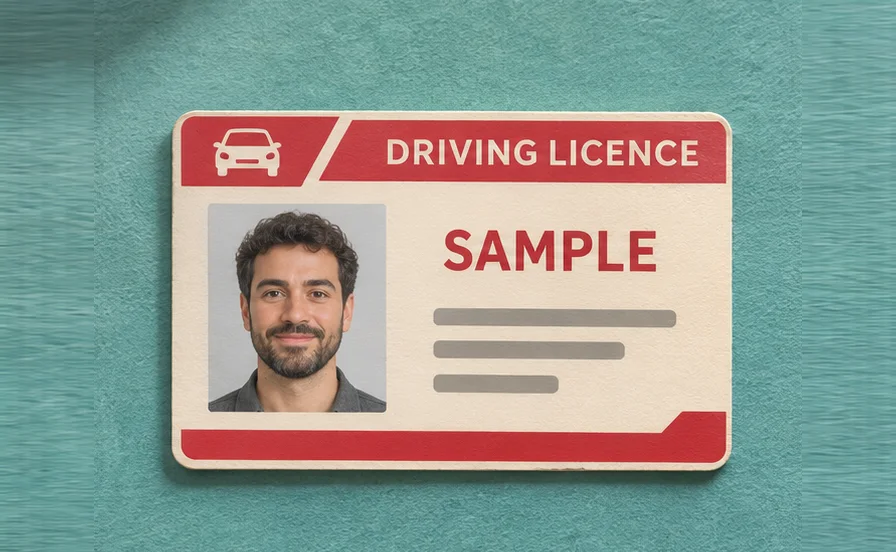
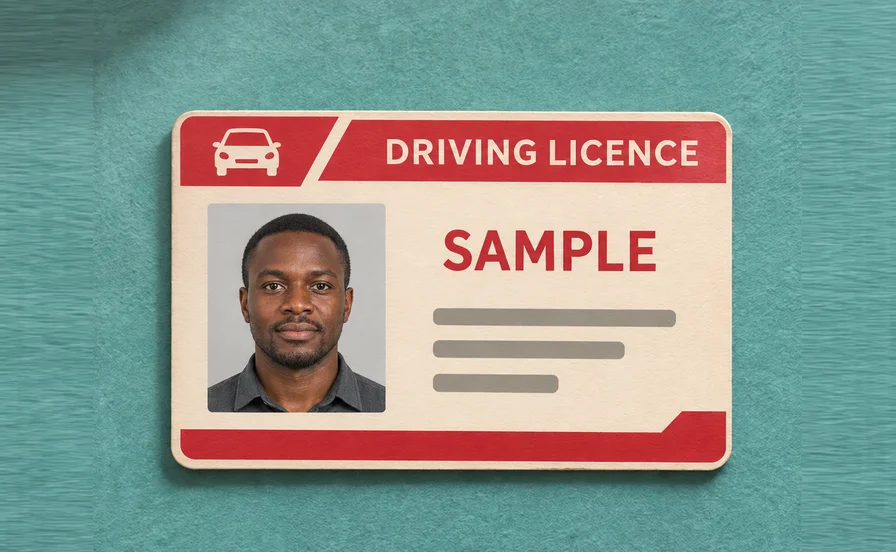
updates to home page

diff --git a/frontend/src/utils/documentGuide.js b/frontend/src/utils/documentGuide.js
@@ -1,5 +1,5 @@
 export const documents = [
   { id:'national_id', name:'National ID', image:'/guide/national-id.webp', alt:'Sample photo ID on a sea-green tabletop', capture:'Capture both sides', hint:'Keep all four corners visible on the front and back.' },
-  { id:'passport', name:'Passport', image:'/guide/passport.webp', alt:'Open sample passport with its portrait page visible', capture:'Open to the photo page', hint:'Keep the entire page in frame, including the two lines at the bottom.' },
+  { id:'passport', name:'Passport', image:'/guide/passport.webp', alt:'Horizontal sample passport photo page with the portrait on the left and two lines along the bottom', capture:'Open to the photo page', hint:'Frame the photo page horizontally. Include all four corners and both lines at the bottom.' },
   { id:'drivers_licence', name:'Driver’s licence', image:'/guide/licence.webp', alt:'Sample driving licence on a sea-green tabletop', capture:'Capture the front', hint:'Position your licence so the portrait and printed details are clear.' },
 ]

diff --git a/frontend/src/views/HomeView.vue b/frontend/src/views/HomeView.vue
@@ -41,7 +41,7 @@
       <section id="guide" class="wrap guide-layout" aria-labelledby="guide-title">
         <div class="guide-intro section-title">
           <h2 id="guide-title">Document guide</h2>
-          <p>Try a capture with a sample document before using your own. Choose an ID and check how it looks in the frame.</p>
+          <p>Practise with a fictional document. Keep all four corners in the frame and check that the portrait and print are clear.</p>
           <p class="camera-note"><CameraOff :size="16" aria-hidden="true" /> Your camera stays off during practice</p>
         </div>
         <div ref="practiceRoot" class="practice-mount"></div>
